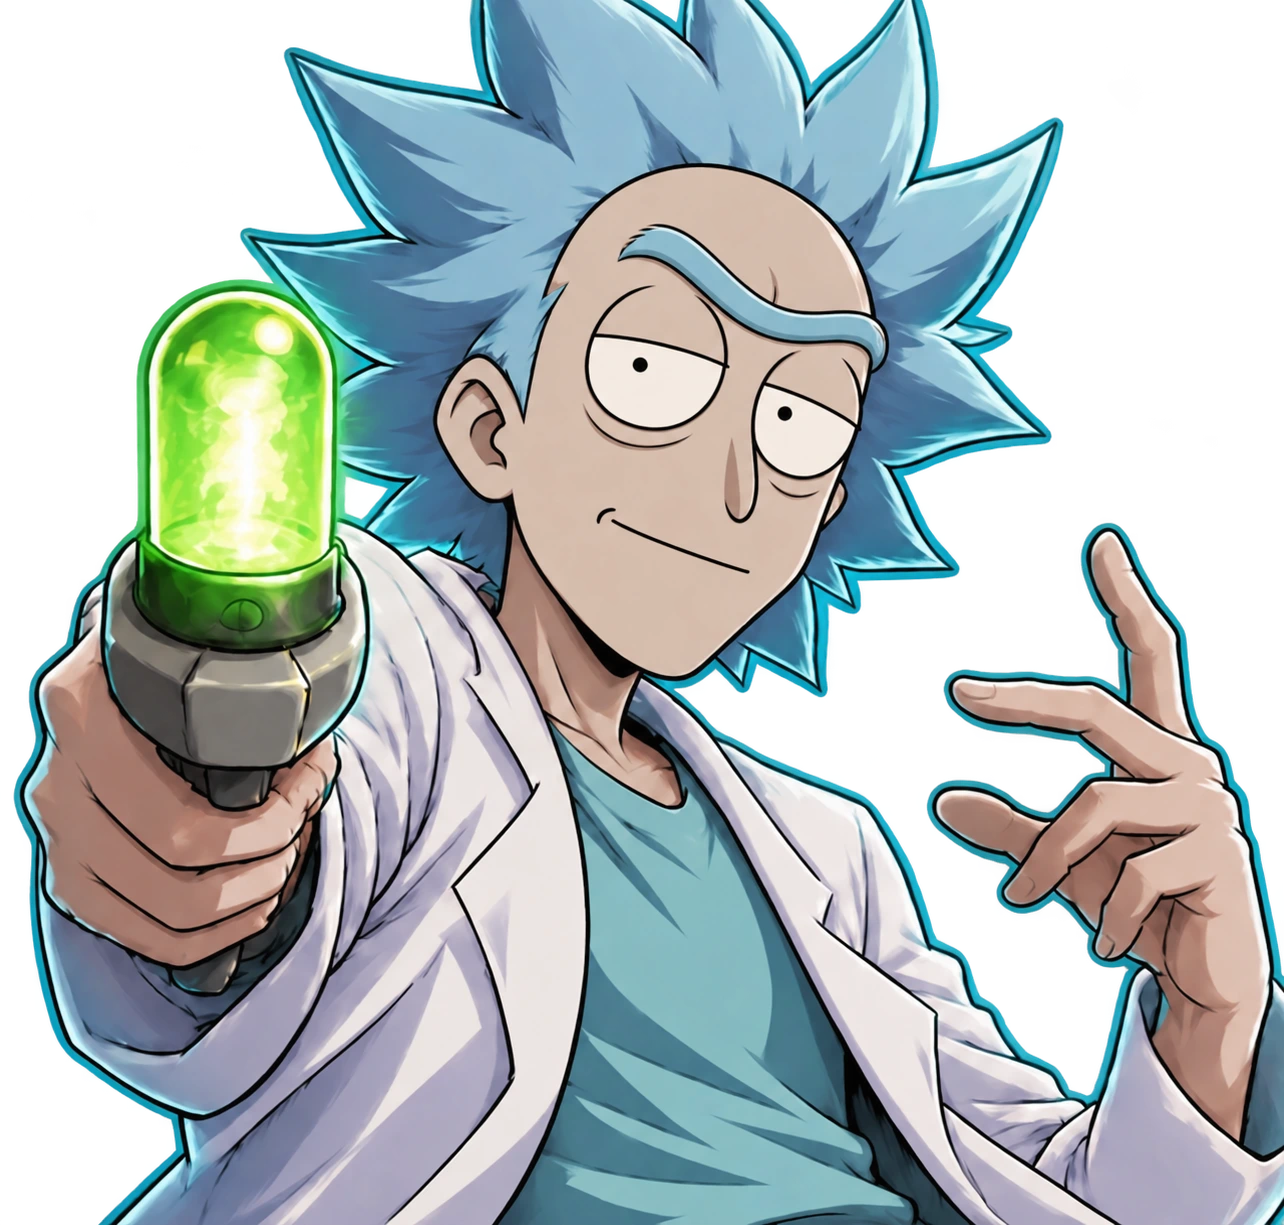
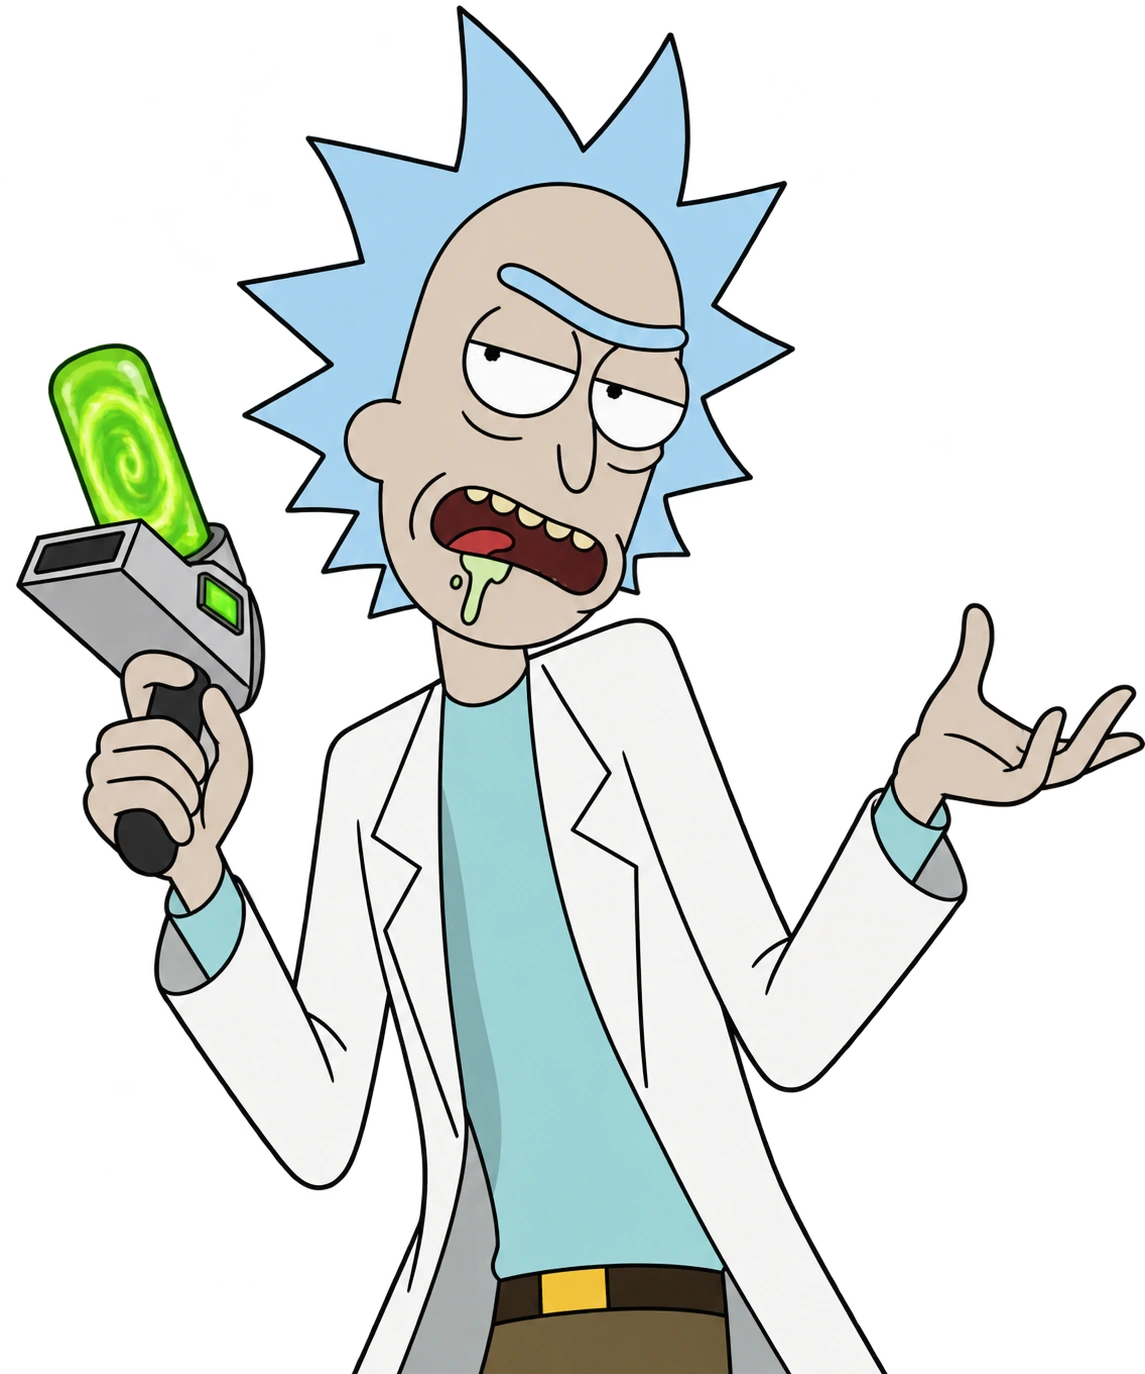
Prepare 14 character portrait remakes for review

diff --git a/docs/portrait-review/remakes-2026-10-08/README.md b/docs/portrait-review/remakes-2026-10-08/README.md
@@ -1,0 +1,23 @@
+# Remakes para revisão — 8 de outubro de 2026
+
+Prévia dos 14 retratos gerados a partir dos personagens enviados pelo usuário.
+Os originais estão em `assets/ai-source/portraits/overrides/{id}.webp`; os cards são construídos com `python scripts/create-expanded-portraits.py`.
+
+| Nº | Personagem | ID |
+|---:|---|---|
+| 01 | Rick Sanchez | `rick` |
+| 02 | He-Man | `heman` |
+| 03 | Popeye | `popeye` |
+| 04 | Optimus Prime | `optimus` |
+| 05 | Ben 10 | `ben10` |
+| 06 | Aang | `aang` |
+| 07 | Constantine | `constantine` |
+| 08 | Arthas | `arthas` |
+| 09 | Isaac Clarke | `isaac` |
+| 10 | Gordon Freeman | `gordon` |
+| 11 | Sub-Zero | `subzero` |
+| 12 | Liu Kang | `liukang` |
+| 13 | Raiden | `raidenmk` |
+| 14 | Jin Kazama | `jin` |
+
+Pendentes por bloqueio da geração: Salsicha, Pernalonga, Samurai Jack, Pica-Pau, Geralt de Rívia, Mario e Bowser. Os retratos atuais desses personagens continuam em uso até que haja uma solução gerada. Nenhuma imagem de internet foi usada.
